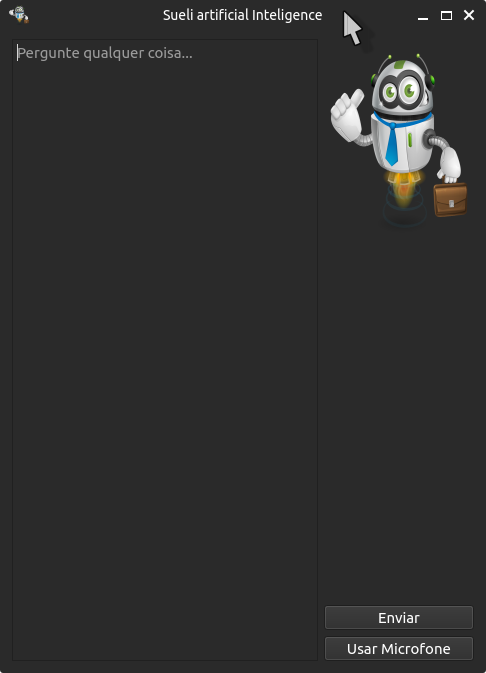
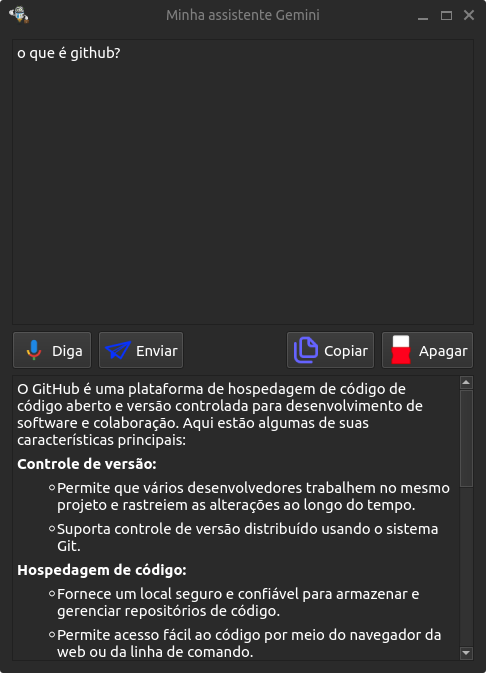
Melhoria de Interface e Saída em Markdown com possibilidade de cópia

diff --git a/template.py b/template.py
@@ -19,24 +19,58 @@ class Ui_MainWindow(object):
         MainWindow.setWindowOpacity(0.95)
         self.centralwidget = QtWidgets.QWidget(parent=MainWindow)
         self.centralwidget.setObjectName("centralwidget")
-        self.gridLayout = QtWidgets.QGridLayout(self.centralwidget)
+        self.gridLayout_2 = QtWidgets.QGridLayout(self.centralwidget)
+        self.gridLayout_2.setObjectName("gridLayout_2")
+        self.gridLayout = QtWidgets.QGridLayout()
         self.gridLayout.setObjectName("gridLayout")
+        self.verticalLayout = QtWidgets.QVBoxLayout()
+        self.verticalLayout.setObjectName("verticalLayout")
         self.txt_chat = QtWidgets.QTextEdit(parent=self.centralwidget)
         self.txt_chat.setObjectName("txt_chat")
-        self.gridLayout.addWidget(self.txt_chat, 2, 1, 5, 1)
+        self.verticalLayout.addWidget(self.txt_chat)
+        self.gridLayout.addLayout(self.verticalLayout, 0, 0, 1, 1)
+        self.horizontalLayout = QtWidgets.QHBoxLayout()
+        self.horizontalLayout.setObjectName("horizontalLayout")
         self.bt_usar_mic = QtWidgets.QPushButton(parent=self.centralwidget)
+        self.bt_usar_mic.setCursor(QtGui.QCursor(QtCore.Qt.CursorShape.PointingHandCursor))
+        icon1 = QtGui.QIcon()
+        icon1.addPixmap(QtGui.QPixmap("assets/mic.png"), QtGui.QIcon.Mode.Normal, QtGui.QIcon.State.Off)
+        self.bt_usar_mic.setIcon(icon1)
+        self.bt_usar_mic.setIconSize(QtCore.QSize(32, 32))
         self.bt_usar_mic.setObjectName("bt_usar_mic")
-        self.gridLayout.addWidget(self.bt_usar_mic, 6, 2, 1, 1)
+        self.horizontalLayout.addWidget(self.bt_usar_mic)
         self.bt_enviar = QtWidgets.QPushButton(parent=self.centralwidget)
+        self.bt_enviar.setCursor(QtGui.QCursor(QtCore.Qt.CursorShape.PointingHandCursor))
+        icon2 = QtGui.QIcon()
+        icon2.addPixmap(QtGui.QPixmap("assets/assistente.png"), QtGui.QIcon.Mode.Normal, QtGui.QIcon.State.Off)
+        self.bt_enviar.setIcon(icon2)
+        self.bt_enviar.setIconSize(QtCore.QSize(32, 32))
         self.bt_enviar.setObjectName("bt_enviar")
-        self.gridLayout.addWidget(self.bt_enviar, 5, 2, 1, 1)
-        self.label = QtWidgets.QLabel(parent=self.centralwidget)
-        self.label.setMaximumSize(QtCore.QSize(150, 200))
-        self.label.setText("")
-        self.label.setPixmap(QtGui.QPixmap("assets/robo.png"))
-        self.label.setScaledContents(True)
-        self.label.setObjectName("label")
-        self.gridLayout.addWidget(self.label, 2, 2, 1, 1)
+        self.horizontalLayout.addWidget(self.bt_enviar)
+        spacerItem = QtWidgets.QSpacerItem(40, 20, QtWidgets.QSizePolicy.Policy.Expanding, QtWidgets.QSizePolicy.Policy.Minimum)
+        self.horizontalLayout.addItem(spacerItem)
+        self.bt_copy = QtWidgets.QPushButton(parent=self.centralwidget)
+        icon3 = QtGui.QIcon()
+        icon3.addPixmap(QtGui.QPixmap("assets/copy.png"), QtGui.QIcon.Mode.Normal, QtGui.QIcon.State.Off)
+        self.bt_copy.setIcon(icon3)
+        self.bt_copy.setIconSize(QtCore.QSize(32, 32))
+        self.bt_copy.setObjectName("bt_copy")
+        self.horizontalLayout.addWidget(self.bt_copy)
+        self.bt_erase = QtWidgets.QPushButton(parent=self.centralwidget)
+        icon4 = QtGui.QIcon()
+        icon4.addPixmap(QtGui.QPixmap("assets/eraser.png"), QtGui.QIcon.Mode.Normal, QtGui.QIcon.State.Off)
+        self.bt_erase.setIcon(icon4)
+        self.bt_erase.setIconSize(QtCore.QSize(32, 32))
+        self.bt_erase.setObjectName("bt_erase")
+        self.horizontalLayout.addWidget(self.bt_erase)
+        self.gridLayout.addLayout(self.horizontalLayout, 1, 0, 1, 1)
+        self.verticalLayout_2 = QtWidgets.QVBoxLayout()
+        self.verticalLayout_2.setObjectName("verticalLayout_2")
+        self.txt_resposta = QtWidgets.QTextEdit(parent=self.centralwidget)
+        self.txt_resposta.setObjectName("txt_resposta")
+        self.verticalLayout_2.addWidget(self.txt_resposta)
+        self.gridLayout.addLayout(self.verticalLayout_2, 2, 0, 1, 1)
+        self.gridLayout_2.addLayout(self.gridLayout, 0, 0, 1, 1)
         MainWindow.setCentralWidget(self.centralwidget)
 
         self.retranslateUi(MainWindow)
@@ -44,7 +78,15 @@ class Ui_MainWindow(object):
 
     def retranslateUi(self, MainWindow):
         _translate = QtCore.QCoreApplication.translate
-        MainWindow.setWindowTitle(_translate("MainWindow", "Gemini Api - Assistente Com Inteligência Artificial"))
-        self.txt_chat.setPlaceholderText(_translate("MainWindow", "Pergunte qualquer coisa...\nÀs vezes demoro um pouco para responder seja paciente comigo..."))
-        self.bt_usar_mic.setText(_translate("MainWindow", "Usar Microfone"))
+        MainWindow.setWindowTitle(_translate("MainWindow", "Minha assistente Gemini"))
+        self.txt_chat.setPlaceholderText(_translate("MainWindow", "Pergunte qualquer coisa..."))
+        self.bt_usar_mic.setText(_translate("MainWindow", "Diga"))
+        self.bt_usar_mic.setShortcut(_translate("MainWindow", "Ctrl+O"))
         self.bt_enviar.setText(_translate("MainWindow", "Enviar"))
+        self.bt_enviar.setShortcut(_translate("MainWindow", "Ctrl+Return"))
+        self.bt_copy.setText(_translate("MainWindow", "Copiar"))
+        self.bt_copy.setShortcut(_translate("MainWindow", "Ctrl+C"))
+        self.bt_erase.setWhatsThis(_translate("MainWindow", "limpar a caixa de texto"))
+        self.bt_erase.setText(_translate("MainWindow", "Apagar"))
+        self.bt_erase.setShortcut(_translate("MainWindow", "Ctrl+Del"))
+        self.txt_resposta.setPlaceholderText(_translate("MainWindow", "A resposta aparecerá aqui..."))

diff --git a/app.py b/app.py
@@ -8,20 +8,31 @@ from functools import cache
 from gtts import gTTS
 from playsound import playsound
 
+def ocultar_output():
+    ui.txt_resposta.hide()
+
+def exibir_output():
+    ui.txt_resposta.show()
+
 # Inicia Gemini
 @cache
-def gemini_ai(frase):
+def gemini_ai(pergunta):
+
     genai.configure(api_key=API_KEY)
     model = genai.GenerativeModel("gemini-pro")
-    response = model.generate_content(frase)
-    try:
+    response = model.generate_content(pergunta)
+    if response:
         texto = response.text
-        ui.txt_chat.setText("Resposta:\n"+texto.replace("*", " "))        
+        # Atualiza caixa de resposta
+        ui.txt_chat.setText(f"{pergunta}")
+        ui.txt_resposta.setMarkdown(f"{texto}")
+        
+        # Fala a Resposta
         cria_audio(texto.replace("*", " "))
              
-    except Exception as e:
-        ui.txt_chat.setText(f'{type(e).__name__}: {e}')        
-        cria_audio(f'{type(e).__name__}: {e}')         
+    else:
+        ui.txt_resposta.setText("Erro!")        
+        cria_audio("Aconteceu algum erro!")         
      
 
 # Funcao responsavel por falar
@@ -32,14 +43,19 @@ def cria_audio(texto):
     playsound("audio.mp3")    
 
 # Funcao responsavel por ouvir e reconhecer a fala
-def ouvir_microfone():   
+def ouvir_microfone():  
+
+    exibir_output() 
+    time.sleep(0.3)    
+
+    ui.txt_resposta.setText("")
 
     # Habilita o microfone para ouvir o usuario
     microfone = sr.Recognizer()
     with sr.Microphone() as source:
 
         # Avisa ao usuario que esta pronto para ouvir
-        cria_audio("Em que posso te ajudar?")
+        cria_audio("Diga!")
 
         # Chama a funcao de reducao de ruido disponivel na speech_recognition
         microfone.adjust_for_ambient_noise(source)
@@ -49,42 +65,59 @@ def ouvir_microfone():
 
         try:
             # Passa o audio para o reconhecedor de padroes do speech_recognition
-            frase = microfone.recognize_google(audio, language="pt-BR")
+            pergunta = microfone.recognize_google(audio, language="pt-BR")           
 
             # Após alguns segundos, retorna a frase falada 
-            gemini_ai(frase)                
+            gemini_ai(pergunta)
+
+            # Atualiza Caixa de pergunta
+            ui.txt_chat.setText(pergunta.capitalize())                
 
 
         # Caso nao tenha reconhecido o padrao de fala, exibe esta mensagem
         except:
-            cria_audio("Não consegui entender...")
-            time.sleep(3)
-            ouvir_microfone()
+            cria_audio("Não entendi! Clique no botão novamente!")
             
 
 # Entrada de texto
 def enviar_chat():
 
+    exibir_output()
+    time.sleep(0.3)
+
+    ui.txt_resposta.setText("")
 
     txt = ui.txt_chat.toPlainText()
 
     if txt:
-
-        cria_audio(txt)
-
+       
+        try:
+            # Após alguns segundos, retorna a frase falada                   
+            gemini_ai(txt)
+            
+            # Caso nao tenha reconhecido o padrao de fala, exibe esta mensagem
+        except:
+            cria_audio("Verifique sua conexão ou api-key...")
+            time.sleep(3)
+            # ouvir_microfone()
     else:
 
-        txt = "Oi Gemini, hoje está um belo dia..."
+        cria_audio("Digite alguma coisa!")
 
-    try:
-        # Após alguns segundos, retorna a frase falada                   
-        gemini_ai(txt)
-        
-        # Caso nao tenha reconhecido o padrao de fala, exibe esta mensagem
-    except:
-        cria_audio("Verifique sua conexão ou api-key...")
-        time.sleep(3)
-        # ouvir_microfone()
+# Função para limpar a caixa de texto
+def limpar_caixa_de_texto():
+    ocultar_output()
+    ui.txt_resposta.setText("")
+    ui.txt_chat.setText("")
+
+# Copiar a caixa de texto
+def copiar_a_caixa_de_texto():
+    texto = ui.txt_chat.toPlainText()
+    texto += ui.txt_resposta.toPlainText()
+    
+    os.system(f"echo '{texto}' | xclip -select clipboard")
+    
+    limpar_caixa_de_texto()
 
 
 if __name__ == "__main__":
@@ -95,9 +128,13 @@ if __name__ == "__main__":
     ui = Ui_MainWindow()
     ui.setupUi(MainWindow)
 
+    ocultar_output()
+
     # botões
     ui.bt_enviar.clicked.connect(enviar_chat)
     ui.bt_usar_mic.clicked.connect(ouvir_microfone)
+    ui.bt_erase.clicked.connect(limpar_caixa_de_texto)
+    ui.bt_copy.clicked.connect(copiar_a_caixa_de_texto)
 
     MainWindow.show()
     sys.exit(app.exec())
